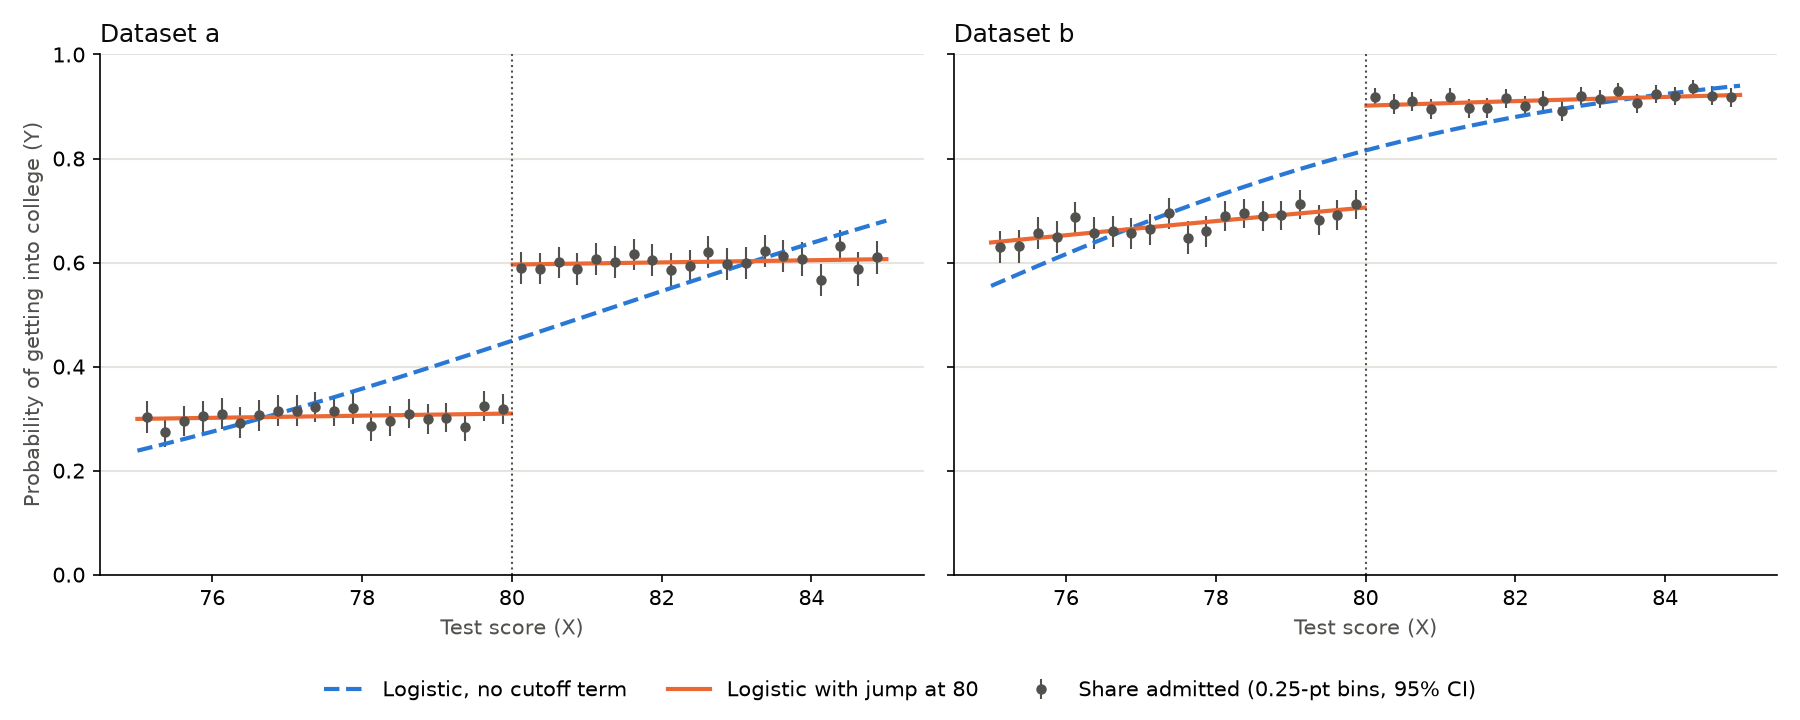
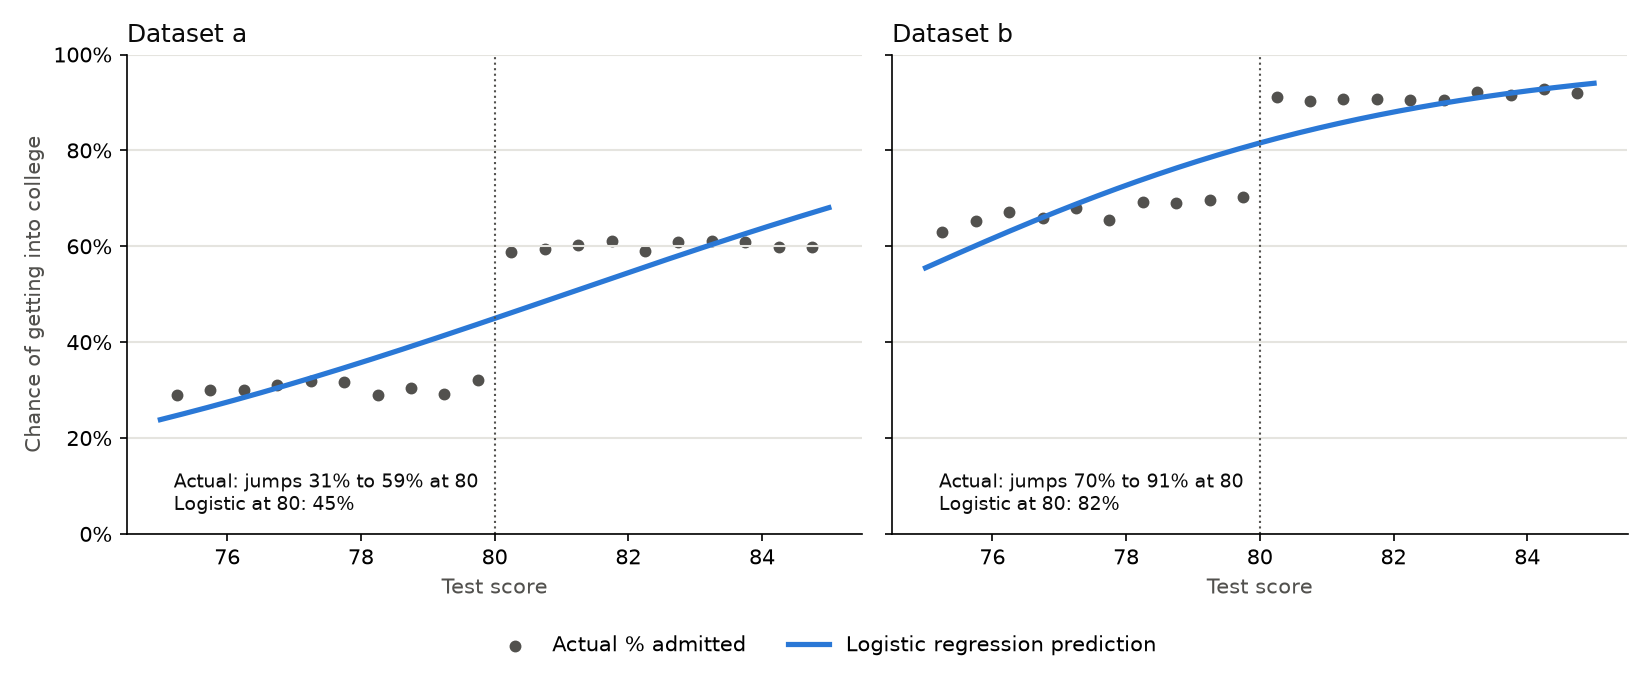
update week4 reflection

diff --git a/week4_reflection.py b/week4_reflection.py
@@ -6,8 +6,8 @@ Equal-width ranges leave only a few rows (sometimes one Z group) at the tails,
 so the ranges hold equal counts instead.
 
 Q2: plot Y vs. X from 75 to 85. Y is 0/1, so the dots are the share admitted
-in quarter-point bins with 95% intervals, against two logistic regressions:
-a smooth one (Y ~ s) and one that can jump at 80 (Y ~ s + post + s:post).
+in each half-point of score, against the probability predicted by a logistic
+regression (Y ~ X). The curve is smooth, so it cannot follow the jump at 80.
 """
 
 from pathlib import Path
@@ -22,10 +22,10 @@ PLOT = Path(__file__).parent / "week4_reflection.png"
 W_BINS = 20
 CUTOFF = 80
 WINDOW = 5                 # plot 75 to 85
-BIN_WIDTH = 0.25
+BIN_WIDTH = 0.5
 
 INK, MUTED, GRID = "#0b0b0b", "#52514e", "#e5e4df"
-SMOOTH, JUMP = "#2a78d6", "#eb6834"
+DOTS, LINE = "#52514e", "#2a78d6"
 
 
 def load(name):
@@ -68,63 +68,49 @@ def report_instrument():
 def near_cutoff(name):
     df = load(name)
     df.columns = ["X", "Y"]
-    df = df[df["X"].between(CUTOFF - WINDOW, CUTOFF + WINDOW)].copy()
-    df["s"] = df["X"] - CUTOFF
-    df["post"] = (df["X"] >= CUTOFF).astype(int)
-    return df
-
-
-def binned(df):
-    """Share admitted per bin, with a 95% interval."""
-    edges = np.arange(CUTOFF - WINDOW, CUTOFF + WINDOW + BIN_WIDTH, BIN_WIDTH)
-    g = df.groupby(pd.cut(df["X"], edges, right=False), observed=True)["Y"]
-    out = g.agg(["mean", "size"])
-    out["x"] = [iv.mid for iv in out.index]
-    out["ci"] = 1.96 * np.sqrt(out["mean"] * (1 - out["mean"]) / out["size"])
-    return out
+    return df[df["X"].between(CUTOFF - WINDOW, CUTOFF + WINDOW)]
 
 
 def draw(ax, df, title):
-    smooth = smf.logit("Y ~ s", df).fit(disp=0)
-    jump = smf.logit("Y ~ s * post", df).fit(disp=0)
+    """Dots: share admitted per half-point of score. Line: logistic regression."""
+    edges = np.arange(CUTOFF - WINDOW, CUTOFF + WINDOW + BIN_WIDTH, BIN_WIDTH)
+    share = df.groupby(pd.cut(df["X"], edges, right=False), observed=True)["Y"].mean()
+    ax.scatter([iv.mid for iv in share.index], share * 100, s=22, color=DOTS,
+               label="Actual % admitted")
 
-    b = binned(df)
-    ax.errorbar(b["x"], b["mean"], yerr=b["ci"], fmt="o", ms=4, color=MUTED,
-                ecolor=MUTED, elinewidth=1, capsize=0, label="Share admitted (0.25-pt bins, 95% CI)")
+    fit = smf.logit("Y ~ X", df).fit(disp=0)
+    x = np.linspace(CUTOFF - WINDOW, CUTOFF + WINDOW, 200)
+    ax.plot(x, fit.predict(pd.DataFrame({"X": x})) * 100, color=LINE, lw=2.5,
+            label="Logistic regression prediction")
 
-    grid = np.linspace(-WINDOW, WINDOW, 400)
-    curve = pd.DataFrame({"s": grid, "post": (grid >= 0).astype(int)})
-    ax.plot(grid + CUTOFF, smooth.predict(curve), color=SMOOTH, lw=2, ls="--",
-            label="Logistic, no cutoff term")
-    for side in (grid < 0, grid >= 0):
-        ax.plot(grid[side] + CUTOFF, jump.predict(curve[side]), color=JUMP, lw=2,
-                label="Logistic with jump at 80" if side[0] else None)
+    # Actual share admitted in the one point of score on each side of 80.
+    below = df.loc[df["X"].between(CUTOFF - 1, CUTOFF, inclusive="left"), "Y"].mean()
+    above = df.loc[df["X"].between(CUTOFF, CUTOFF + 1, inclusive="left"), "Y"].mean()
+    at_80 = fit.predict(pd.DataFrame({"X": [CUTOFF]})).iloc[0]
+    ax.text(CUTOFF - WINDOW + 0.2, 5, f"Actual: jumps {below:.0%} to {above:.0%} at 80\n"
+                             f"Logistic at 80: {at_80:.0%}", color=INK, fontsize=9)
 
     ax.axvline(CUTOFF, color=MUTED, lw=1, ls=":")
     ax.set_title(title, color=INK, loc="left")
-    ax.set_xlabel("Test score (X)", color=MUTED)
+    ax.set_xlabel("Test score", color=MUTED)
+    ax.set_ylim(0, 100)
+    ax.yaxis.set_major_formatter(lambda v, _: f"{v:.0f}%")
     ax.grid(axis="y", color=GRID, lw=1)
     ax.spines[["top", "right"]].set_visible(False)
-    return smooth, jump
+    return below, above, at_80
 
 
 def report_plot():
-    fig, axes = plt.subplots(1, 2, figsize=(12, 4.8), sharey=True)
+    fig, axes = plt.subplots(1, 2, figsize=(11, 4.5), sharey=True)
     print()
     for ax, name, title in [(axes[0], "homework_4.2.a.csv", "Dataset a"),
                             (axes[1], "homework_4.2.b.csv", "Dataset b")]:
-        df = near_cutoff(name)
-        smooth, jump = draw(ax, df, title)
-        just_below = pd.DataFrame({"s": [-1e-9], "post": [0]})
-        at_cutoff = pd.DataFrame({"s": [0.0], "post": [1]})
-        print(f"{title}: n = {len(df)}   smooth at 80 = {smooth.predict(at_cutoff).iloc[0]:.3f}   "
-              f"jump model {jump.predict(just_below).iloc[0]:.3f} -> "
-              f"{jump.predict(at_cutoff).iloc[0]:.3f}   (post t = {jump.tvalues['post']:.1f})")
+        below, above, at_80 = draw(ax, near_cutoff(name), title)
+        print(f"{title}: actual {below:.0%} below 80, {above:.0%} above   logistic at 80 = {at_80:.0%}")
 
-    axes[0].set_ylabel("Probability of getting into college (Y)", color=MUTED)
-    axes[0].set_ylim(0, 1)
+    axes[0].set_ylabel("Chance of getting into college", color=MUTED)
     handles, labels = axes[0].get_legend_handles_labels()
-    fig.legend(handles, labels, loc="lower center", ncol=3, frameon=False)
+    fig.legend(handles, labels, loc="lower center", ncol=2, frameon=False)
     fig.tight_layout(rect=(0, 0.08, 1, 1))
     fig.savefig(PLOT, dpi=150)
     print(f"\nsaved {PLOT.name}")

diff --git a/Week 4 Reflection.md b/Week 4 Reflection.md
@@ -2,7 +2,7 @@
 
 ## 1. The Coding Quiz gives two options for instrumental variables. For the second item (dividing the range of W into multiple ranges), explain how you did it, show your code, and discuss any issues you encountered.
 
-I split the data into 20 groups based on W, so everyone in a group has about the same W. In each group, I found how much Y changed when Z went from 0 to 1, and divided it by how much X changed. Then I took the average across all 20 groups. I got 1.51, which is almost the same as the 1.56 from the first option.
+I broke the data into 20 groups based on W. That way, everyone in a group has about the same W. Then within each group, I found out how much Y changed when Z went from zero to one, and then divided it by how much X changed. After that, I took the average across 20 groups. I got 1.51, which is about the same as 1.56 from the first option. This means that controlling for W didn't change the answer. Therefore, we don't need W because Z was already random for everyone.
 
 ```python
 def effect(group):
@@ -13,12 +13,14 @@ groups = pd.qcut(df["W"], 20)
 print(np.mean([effect(g) for _, g in df.groupby(groups, observed=True)]))  # 1.51
 ```
 
-The issue I ran into was that when I first split W into equal-sized chunks, the groups at the edges only had a few people in them. Those tiny groups gave crazy answers, like -45. I fixed it by using `pd.qcut`, which puts the same number of people in every group.
+The issue I ran into when I first split W into groups is that the groups at the edge of the ranges only had a few people in them. This is because the extreme W values are rare. I fix this by using pd.qcut, which puts the same number of people into every group instead of breaking up the groups by range.
 
 ## 2. Plot the college outcome (Y) vs. the test score (X) in a small range of test scores around 80. On the plot, compare it with the Y probability predicted by logistic regression.
 
 ![College admission vs. test score near 80](week4_reflection.png)
 
-Y is either 0 or 1, so plotting it directly would just show two lines of dots. Instead, I grouped students with similar scores together and plotted the percent of each group that got into college. Those are the gray dots.
+The gray dots on the graphs are the actual data. Since Y is only ever 0 or 1, I grouped students with similar scores and then plotted the percent of each group that got into college.
 
-The blue dashed line is a normal logistic regression. It can only draw a smooth curve, so it misses the jump at 80. The orange line is a logistic regression that is allowed to jump at 80, and it matches the dots much better. In dataset a, for example, the chance of getting in jumps from about 31% to 60% right at a score of 80.
+The blue line is the logistic regression's prediction. Since it can only draw a smooth curve, it doesn't account for the jump at a test score of 80. In dataset A, the chance of getting in increases from ~30% to ~60% when you get a score of 80, but the logistic regression predicts 45%. Dataset B has the same exact problem. The real chance of getting in increases from ~70% to ~90%. But the logistic regression predicts about 80%.
+
+This means that using plain logistic regression actually hides a jump, which is the most important part of this data.
